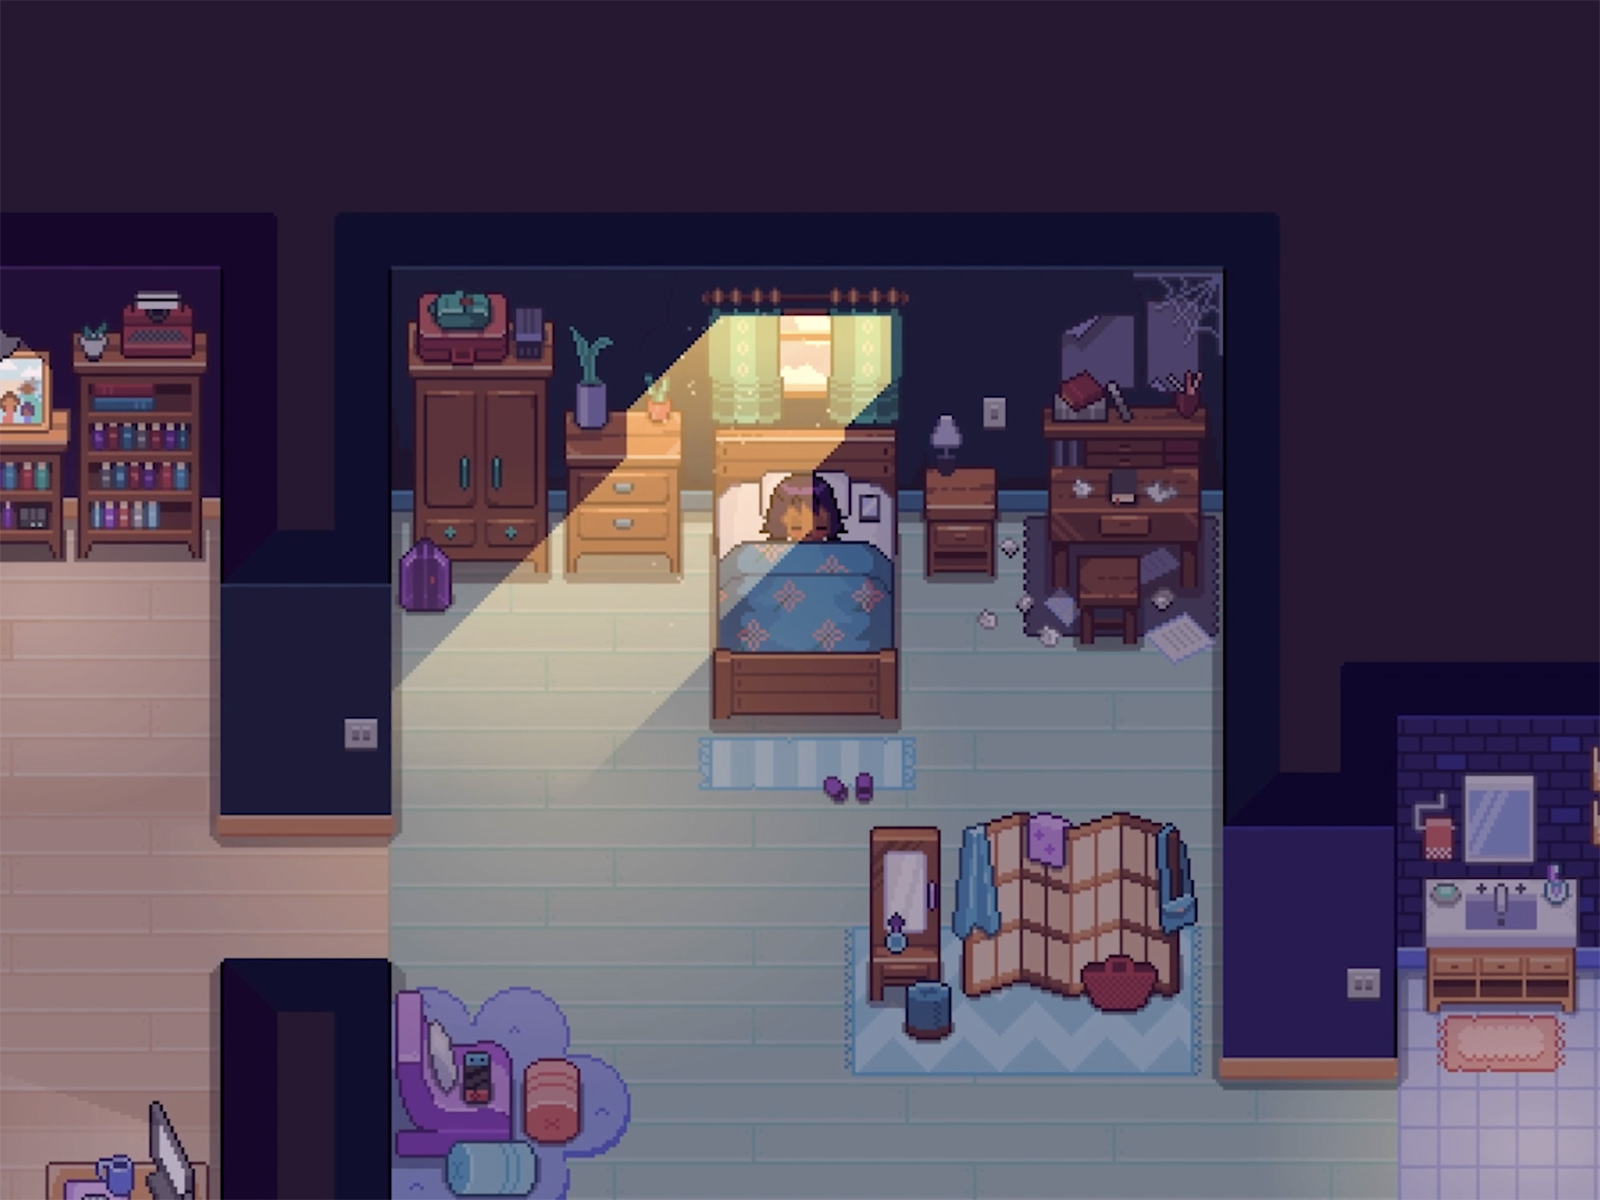
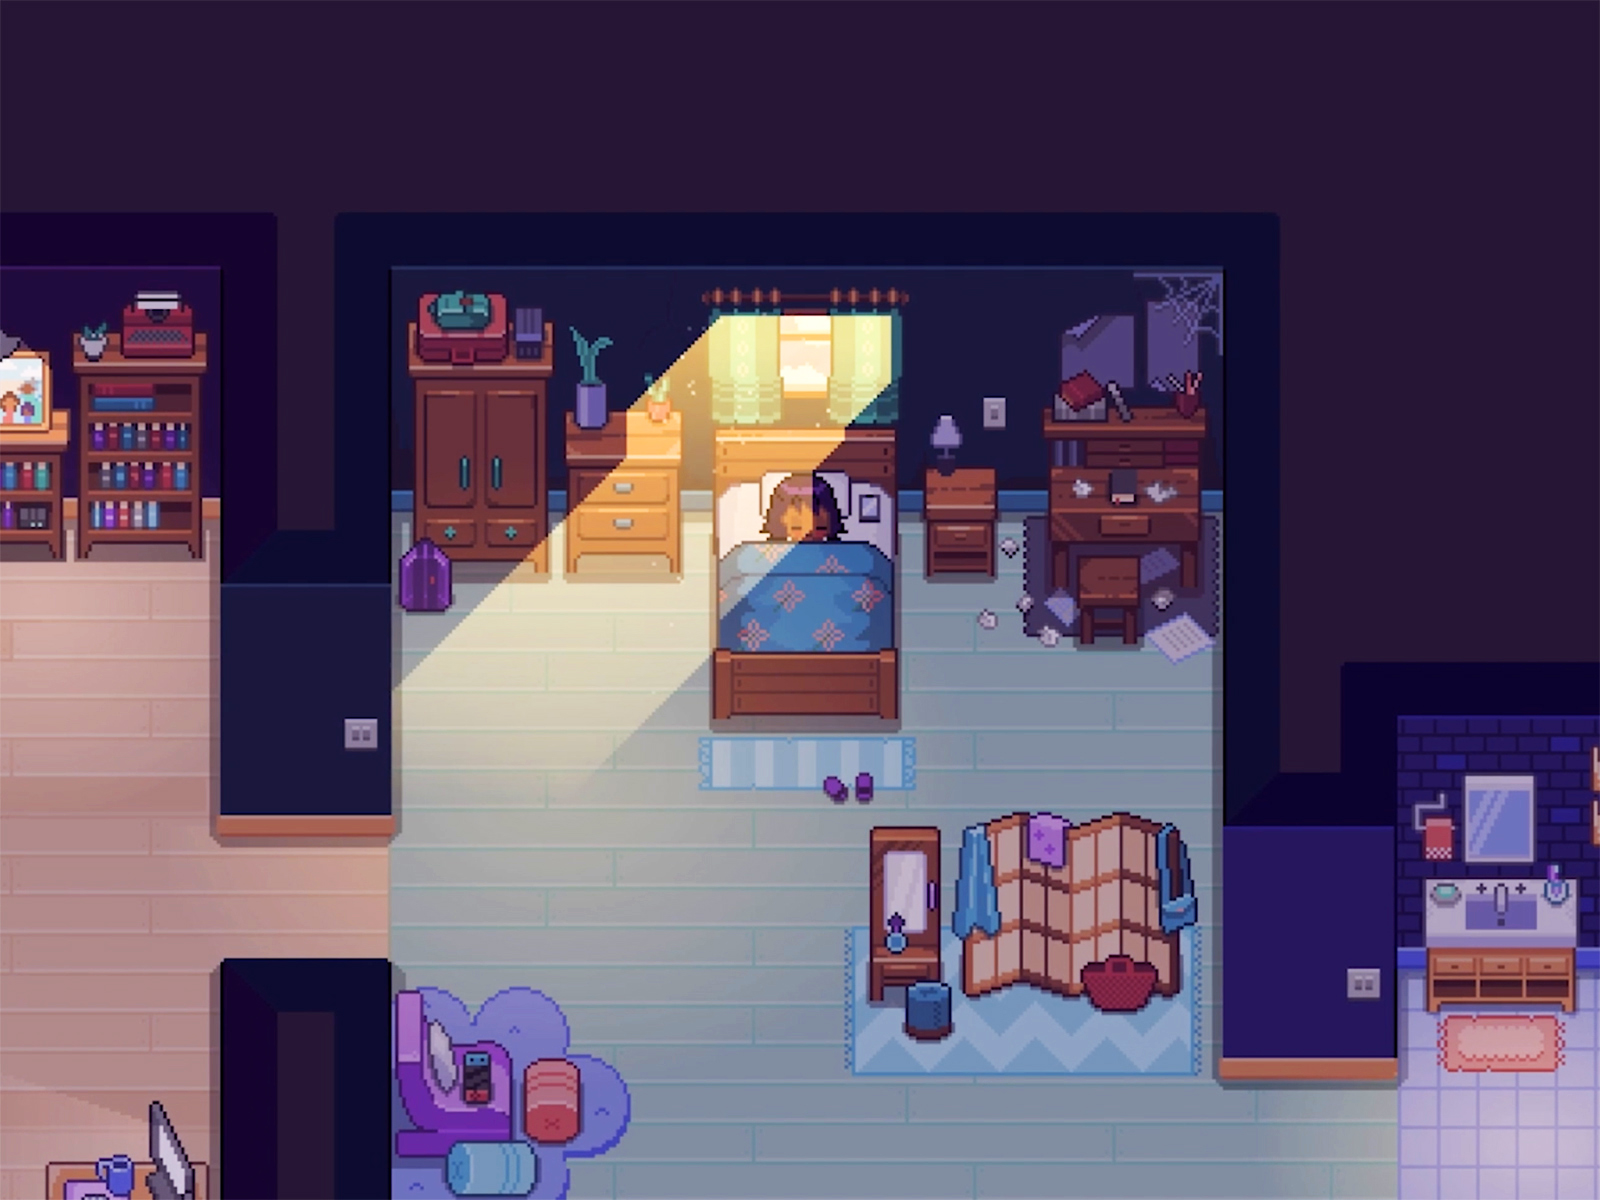
fix: increase saturation

Changed region(s): [[0.0, 0.2467, 1.0, 1.0], [0.25, 0.2467, 0.3438, 0.3083]]

diff --git a/style.css b/style.css
@@ -4,7 +4,9 @@
   --bs-body-bg: #1a1321;
   --bs-body-color: #fff;
   --bs-font-sans-serif: 'Arvo', system-ui, -apple-system, "Segoe UI", Roboto, "Helvetica Neue", Arial, "Noto Sans", "Liberation Sans", sans-serif, "Apple Color Emoji", "Segoe UI Emoji", "Segoe UI Symbol", "Noto Color Emoji";
-  --branding-orange: #c17d72;
+  /* --branding-orange: #c17d72; */
+  --branding-orange: #db8e7b;
+  /* --branding-orange: red; */
   --hover-color: #A19AB2;
 }
 
